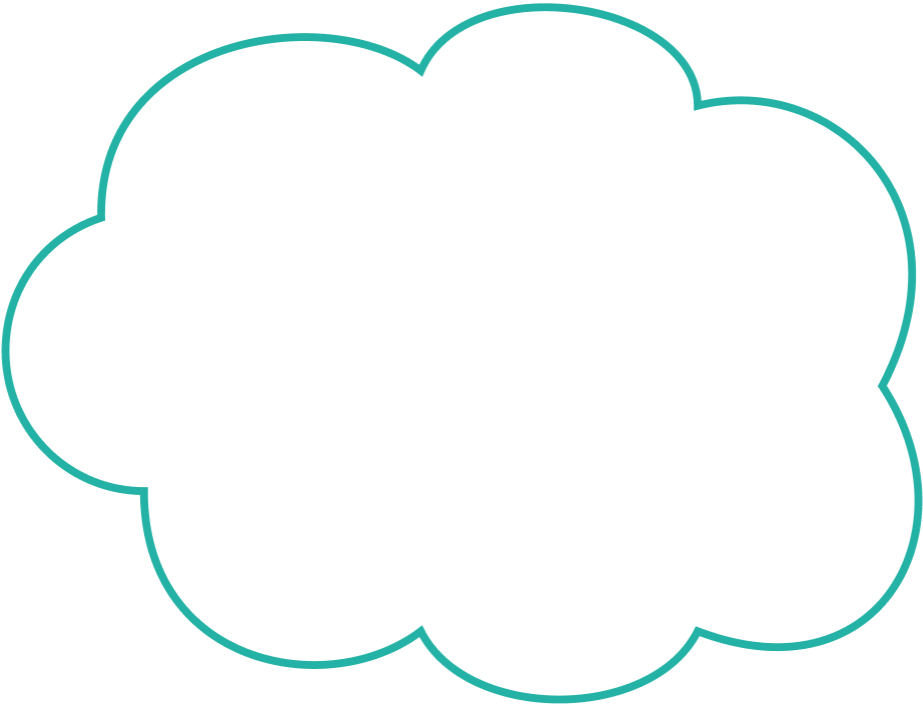
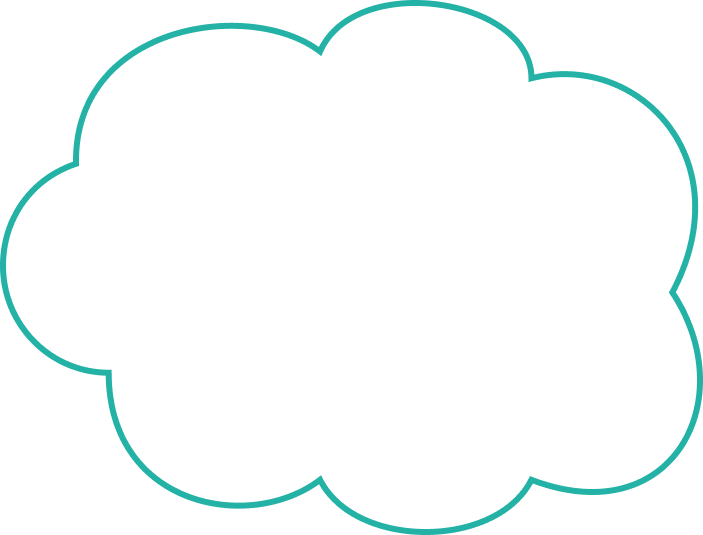
modif cloud

diff --git a/ymood/src/App.js b/ymood/src/App.js
@@ -50,6 +50,63 @@ const emotions2 = [
     weight:40,
   }
 ]
+const emotions3 = [
+  {
+    text:"joie",
+    weight:45,
+  },
+  {
+    text:"colère",
+    weight:6,
+  },
+  {
+    text:"tristesse",
+    weight:17,
+  },
+  {
+    text:"happy",
+    weight:10,
+  },
+  {
+    text:"horny",
+    weight:60,
+  },
+  {
+    text:"faim",
+    weight:18,
+  },
+  {
+    text:"content",
+    weight:20,
+  },{
+    text:"joie",
+    weight:23,
+  },
+  {
+    text:"colère",
+    weight:13,
+  },
+  {
+    text:"tristesse",
+    weight:56,
+  },
+  {
+    text:"happy",
+    weight:38,
+  },
+  {
+    text:"horny",
+    weight:6,
+  },
+  {
+    text:"faim",
+    weight:38,
+  },
+  {
+    text:"content",
+    weight:17,
+  }
+]
 
 function App() {
   return (
@@ -57,6 +114,7 @@ function App() {
       <div style={{display:"flex",flexDirection: "column",alignItems: "center"}}>
         {displayContent(emotions)}
         {displayContent(emotions2)}
+        {displayContent(emotions3)}
       </div>
     </div>
   );

diff --git a/ymood/src/tempFront/wordLoader.js b/ymood/src/tempFront/wordLoader.js
@@ -93,15 +93,14 @@ function calcFontSize(text,maxsize){
 
 function setMargin(width){
     let totalwidth = width+100;
-    let totalheight = totalwidth*7/9;
-    console.log(totalheight,totalwidth)
+    let totalheight = totalwidth*535/703;
     let marginheight,marginwidth;
     if (totalheight<width){
-        marginheight = 3;
-        marginwidth = (width*9/7-width)/2;
+        marginheight = 0;
+        marginwidth = (width*703/535-width)/2;
     } else {
         marginheight = (totalheight-containerSize)/2;
-        marginwidth = 2+(totalwidth-containerSize)/2;
+        marginwidth = (totalwidth-containerSize)/2;
     }
     return {        
         margin:marginheight+"px",
